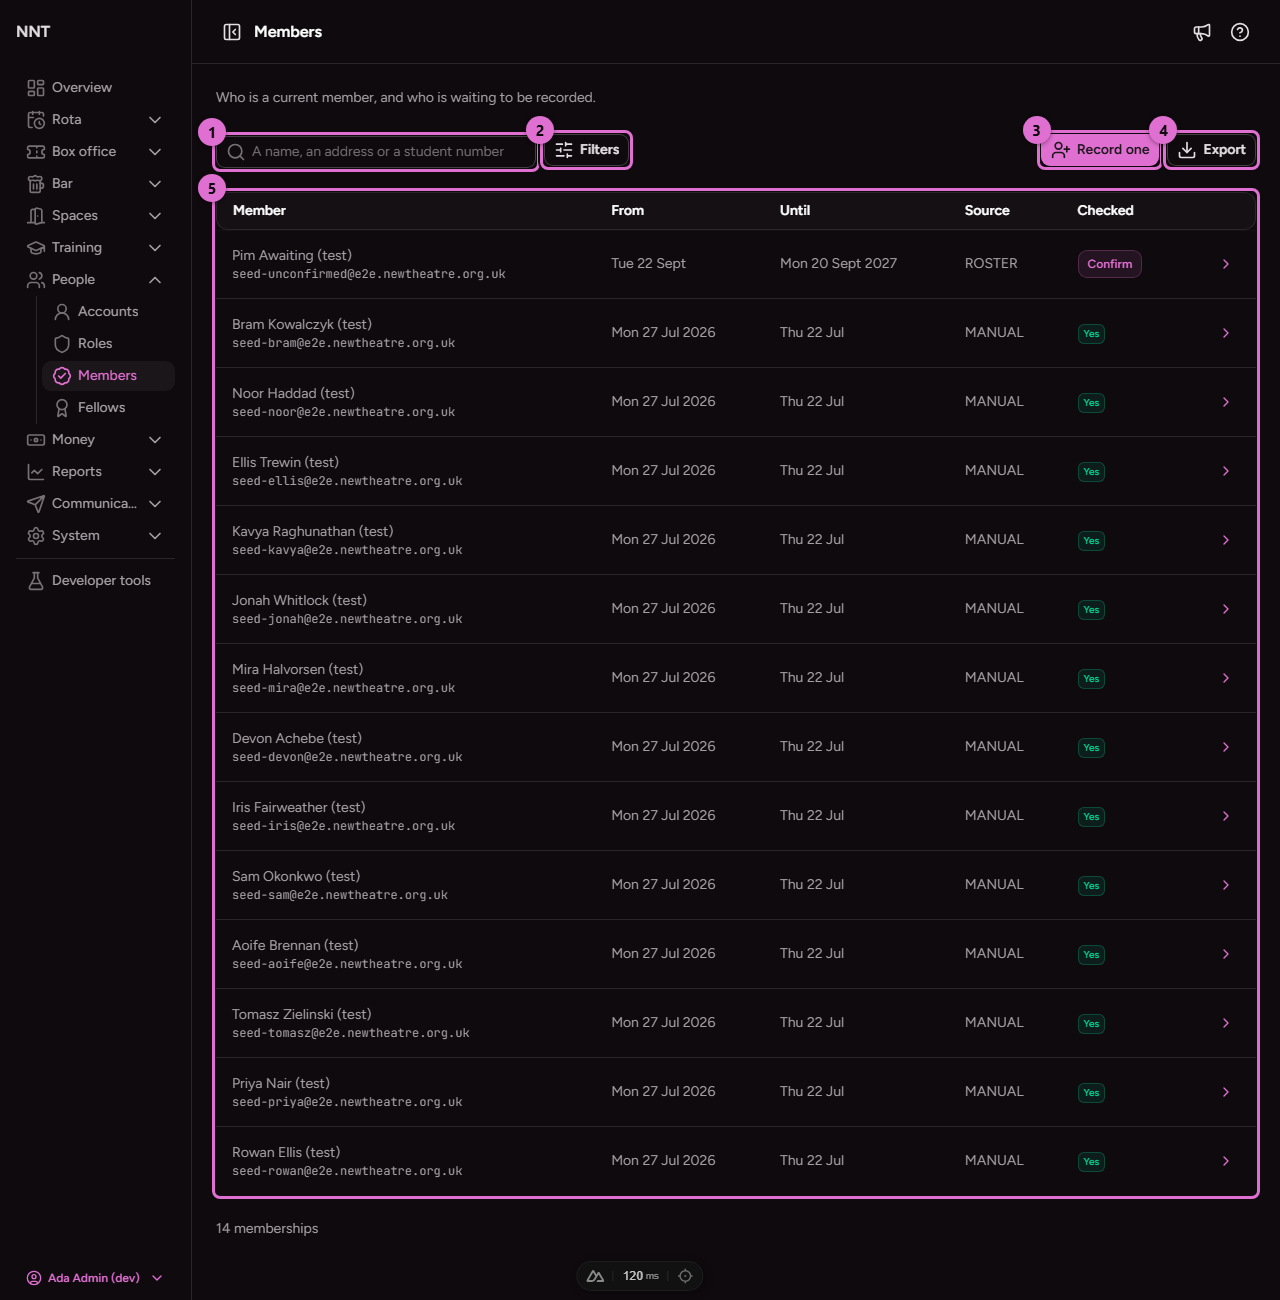
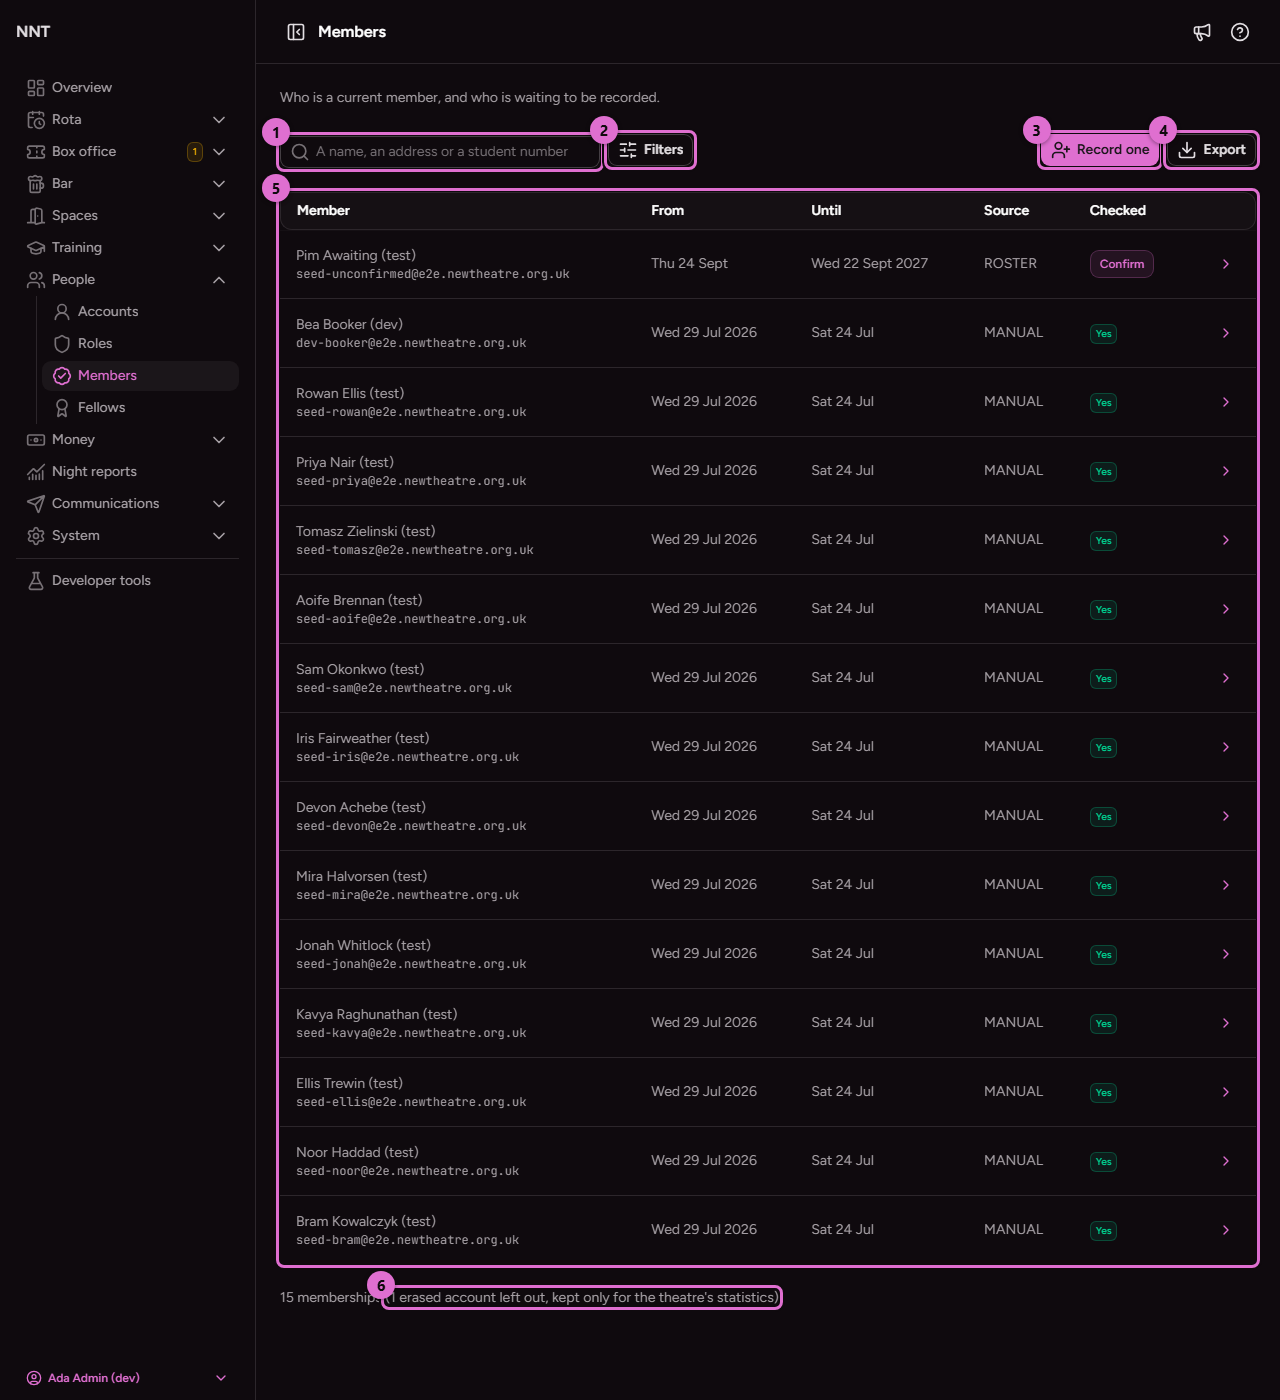
Picture an erased account's page and the register's count of what it leaves out, now the seed holds an erased member (issue 1364)

diff --git a/scripts/docs-shots/people.ts b/scripts/docs-shots/people.ts
@@ -36,6 +36,19 @@ export const people: Shot[] = [
     ],
   },
   {
+    // Every erased account reads the same, and the seed always holds one (issue 1364).
+    name: 'people/account-erased',
+    persona,
+    url: '/people/accounts?anonymised=true',
+    marker: '[data-test="directory-table"]',
+    width: CONSOLE_WIDTH,
+    after: openFirstAccount,
+    annotations: [
+      { selector: '[data-test="account-name"]', label: 'Deleted user' },
+      { selector: '[data-test="erased-line"]', label: 'When it was erased' },
+    ],
+  },
+  {
     name: 'people/account-security',
     persona,
     url: '/people/accounts',
@@ -56,12 +69,15 @@ export const people: Shot[] = [
     url: '/people/members',
     marker: '[data-test="members-table"]',
     width: CONSOLE_WIDTH,
+    height: 1400,
     annotations: [
       { selector: '[data-test="toolbar-search"]', label: 'Search' },
       { selector: '[data-test="toolbar-filters"]', label: 'Filters' },
       { selector: '[data-test="record-membership"]', label: 'Record one' },
       { selector: '[data-test="members-export"]', label: 'Export' },
       { selector: '[data-test="members-table"]', label: 'The table' },
+      // The seeded erased persona holds a current term, so the line is always there to show.
+      { selector: '[data-test="members-erased-hidden"]', label: 'The erased accounts left out' },
     ],
   },
   {

diff --git a/content/docs/09.people/2.members.md b/content/docs/09.people/2.members.md
@@ -58,7 +58,7 @@ is the theatre's copy of them.
 
 ## Finding a member
 
-![The register with the search field (1), the Filters button (2), the claims waiting (3), Record one (4), Export (5) and the table (6)](/images/docs/people/members.png)
+![The register with the search field (1), the Filters button (2), Record one (3), Export (4), the table (5) and the erased accounts left out (6)](/images/docs/people/members.png)
 
 1. **Search** by any part of a name, an email address or a student number. The student number
    is how the committee finds somebody on the SU's list: a name may not match the SU's record,
@@ -68,13 +68,16 @@ is the theatre's copy of them.
    **Awaiting a check** (recorded but not yet confirmed against the SU's list, including a
    renewal that has not started yet), **Lapsed**, and
    **Everyone ever**.
-3. **Record n claims** appears whenever anybody is waiting to be recorded, and opens the queue.
-   The count is on the toolbar itself, so a queue is visible from whichever view you are on.
-4. **Record one** opens the recording form.
-5. **Export** downloads the current view as CSV.
-6. **The table** shows each member with their student number or address, the term's dates (with
+3. **Record one** opens the recording form.
+4. **Export** downloads the current view as CSV.
+5. **The table** shows each member with their student number or address, the term's dates (with
    an **In grace** badge where it applies), the source, and whether it has been checked. The
    arrow at the end of a row opens the account.
+6. **The erased accounts left out**, beside the total under the table (see below).
+
+**Record n claims** appears on the toolbar whenever anybody is waiting to be recorded, and opens
+the queue. The count is on the toolbar itself, so a queue is visible from whichever view you are
+on. There is none in the picture because nobody was waiting.
 
 A membership on an [erased account](/docs/people/accounts) is on no view, in no search and not in
 the export: it is kept only for the theatre's statistics, and nobody could be checked or

diff --git a/content/docs/09.people/1.accounts.md b/content/docs/09.people/1.accounts.md
@@ -211,10 +211,16 @@ can write personal data back onto a closed account.
    stays disabled until it matches.
 3. Press **Erase the account**. **Account erased** confirms it.
 
-The account's page then becomes a record and nothing more. It reads **Deleted user** with an
-**Erased** badge and the line "Erased on (the day). Kept only for the theatre's statistics.", and
-it offers nothing to press: no grant form or revoke, no security card, no merge. Its memberships
-leave the [membership register](/docs/people/members) and its export too.
+The account's page then becomes a record and nothing more.
+
+![An erased account's page with its name (1) and the day it was erased (2)](/images/docs/people/account-erased.png)
+
+1. **Deleted user**, with an **Erased** badge beside it.
+2. **Erased on (the day). Kept only for the theatre's statistics.**
+
+It offers nothing to press: no grant form or revoke, no security card, no merge. Its term is
+still listed, as a record. Its memberships leave the [membership register](/docs/people/members)
+and its export too, and the register says how many it left out.
 
 There is no console export of another person's data. Somebody who wants everything the theatre
 holds on them downloads it themselves from their own account's security page, and that download
